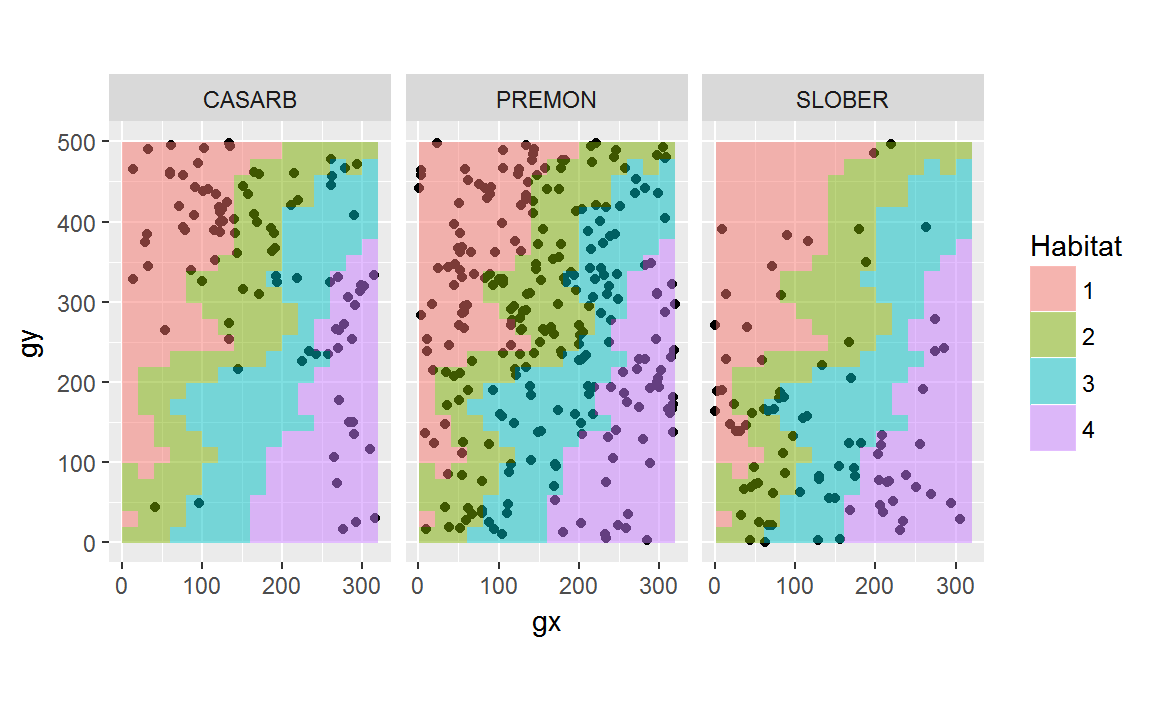
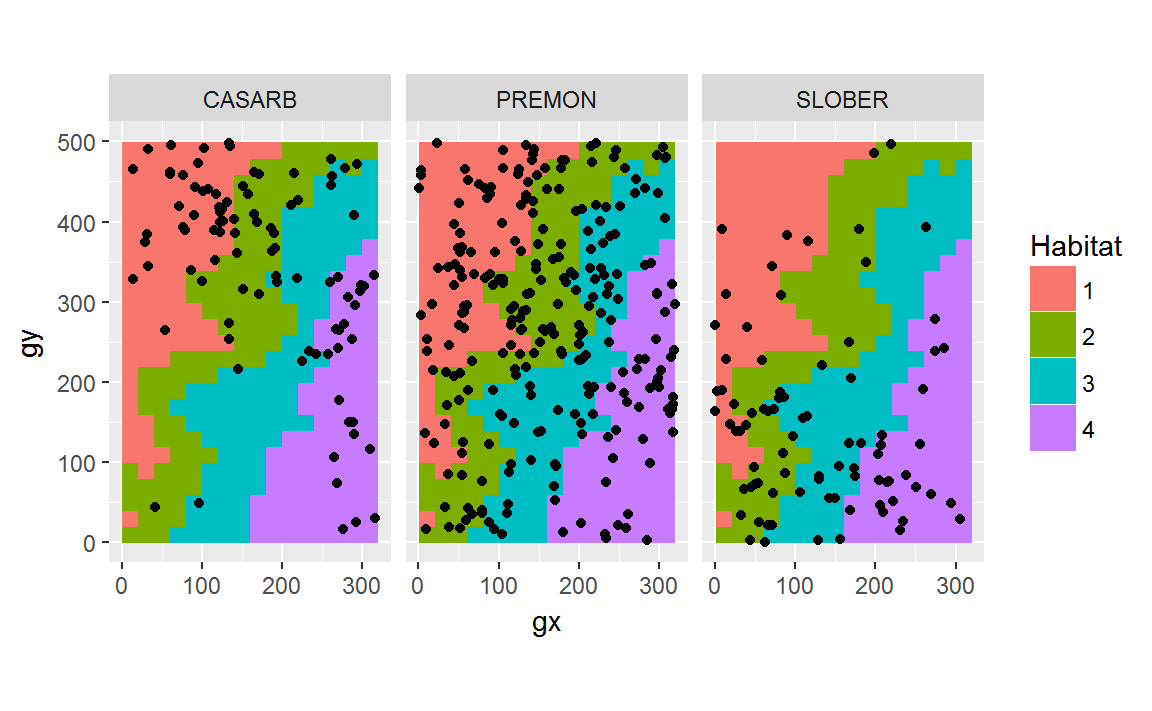
Extend vignette ttt.

diff --git a/docs/articles/ttt_luquillo.html b/docs/articles/ttt_luquillo.html
@@ -121,17 +121,16 @@
 <a class="sourceLine" id="cb1-2" data-line-number="2">remotes<span class="op">::</span><span class="kw"><a href="http://www.rdocumentation.org/packages/remotes/topics/install_github">install_github</a></span>(<span class="st">"forestgeo/fgeo.habitat"</span>)</a></code></pre></div>
 <p>For details on how to install packages from GitHub, see <a href="https://fgeo.netlify.com/2018/02/05/2018-02-05-installing-packages-from-github/">this article</a>.</p>
 <div class="sourceCode" id="cb2"><pre class="sourceCode r"><code class="sourceCode r"><a class="sourceLine" id="cb2-1" data-line-number="1"><span class="kw">library</span>(fgeo.habitat)</a>
-<a class="sourceLine" id="cb2-2" data-line-number="2"><span class="co"># General purpose functions</span></a>
-<a class="sourceLine" id="cb2-3" data-line-number="3"><span class="kw">library</span>(dplyr)</a>
-<a class="sourceLine" id="cb2-4" data-line-number="4"><span class="co">#&gt; </span></a>
-<a class="sourceLine" id="cb2-5" data-line-number="5"><span class="co">#&gt; Attaching package: 'dplyr'</span></a>
-<a class="sourceLine" id="cb2-6" data-line-number="6"><span class="co">#&gt; The following objects are masked from 'package:stats':</span></a>
-<a class="sourceLine" id="cb2-7" data-line-number="7"><span class="co">#&gt; </span></a>
-<a class="sourceLine" id="cb2-8" data-line-number="8"><span class="co">#&gt;     filter, lag</span></a>
-<a class="sourceLine" id="cb2-9" data-line-number="9"><span class="co">#&gt; The following objects are masked from 'package:base':</span></a>
-<a class="sourceLine" id="cb2-10" data-line-number="10"><span class="co">#&gt; </span></a>
-<a class="sourceLine" id="cb2-11" data-line-number="11"><span class="co">#&gt;     intersect, setdiff, setequal, union</span></a>
-<a class="sourceLine" id="cb2-12" data-line-number="12"><span class="kw">library</span>(ggplot2)</a></code></pre></div>
+<a class="sourceLine" id="cb2-2" data-line-number="2"><span class="co"># Packages for data wranging and visualization</span></a>
+<a class="sourceLine" id="cb2-3" data-line-number="3"><span class="kw">library</span>(tidyverse)</a>
+<a class="sourceLine" id="cb2-4" data-line-number="4"><span class="co">#&gt; -- Attaching packages --------------------------------------------------- tidyverse 1.2.1 --</span></a>
+<a class="sourceLine" id="cb2-5" data-line-number="5"><span class="co">#&gt; v ggplot2 2.2.1     v purrr   0.2.4</span></a>
+<a class="sourceLine" id="cb2-6" data-line-number="6"><span class="co">#&gt; v tibble  1.4.2     v dplyr   0.7.4</span></a>
+<a class="sourceLine" id="cb2-7" data-line-number="7"><span class="co">#&gt; v tidyr   0.8.0     v stringr 1.3.0</span></a>
+<a class="sourceLine" id="cb2-8" data-line-number="8"><span class="co">#&gt; v readr   1.1.1     v forcats 0.3.0</span></a>
+<a class="sourceLine" id="cb2-9" data-line-number="9"><span class="co">#&gt; -- Conflicts ------------------------------------------------------ tidyverse_conflicts() --</span></a>
+<a class="sourceLine" id="cb2-10" data-line-number="10"><span class="co">#&gt; x dplyr::filter() masks stats::filter()</span></a>
+<a class="sourceLine" id="cb2-11" data-line-number="11"><span class="co">#&gt; x dplyr::lag()    masks stats::lag()</span></a></code></pre></div>
 </div>
 <div id="load-census-and-habitat-data" class="section level3">
 <h3 class="hasAnchor">
@@ -182,7 +181,7 @@
 <h3 class="hasAnchor">
 <a href="#pick-data" class="anchor"></a>Pick data</h3>
 <p>Let’s pick alive trees, of 10 mm or more, and of sufficiently abundant species.</p>
-<div class="sourceCode" id="cb6"><pre class="sourceCode r"><code class="sourceCode r"><a class="sourceLine" id="cb6-1" data-line-number="1"><span class="co"># Use the pipe %&gt;% to avoid saving temporary intermediary objects</span></a>
+<div class="sourceCode" id="cb6"><pre class="sourceCode r"><code class="sourceCode r"><a class="sourceLine" id="cb6-1" data-line-number="1"><span class="co"># The pipe (`%&gt;%`) helps to avoid saving temporary intermediary objects</span></a>
 <a class="sourceLine" id="cb6-2" data-line-number="2">pick &lt;-<span class="st"> </span>census_data <span class="op">%&gt;%</span><span class="st"> </span></a>
 <a class="sourceLine" id="cb6-3" data-line-number="3"><span class="st">  </span><span class="co"># Keep only alive</span></a>
 <a class="sourceLine" id="cb6-4" data-line-number="4"><span class="st">  </span><span class="kw">filter</span>(status <span class="op">==</span><span class="st"> "A"</span>) <span class="op">%&gt;%</span><span class="st"> </span></a>
@@ -225,17 +224,16 @@
 <a class="sourceLine" id="cb8-5" data-line-number="5">  pick,</a>
 <a class="sourceLine" id="cb8-6" data-line-number="6">  <span class="dt">plotdim =</span> plot_dimensions,</a>
 <a class="sourceLine" id="cb8-7" data-line-number="7">  <span class="dt">gridsize =</span> grid_size,</a>
-<a class="sourceLine" id="cb8-8" data-line-number="8">  <span class="dt">type =</span> <span class="st">'abund'</span></a>
-<a class="sourceLine" id="cb8-9" data-line-number="9">)<span class="op">$</span>abund</a>
-<a class="sourceLine" id="cb8-10" data-line-number="10"></a>
-<a class="sourceLine" id="cb8-11" data-line-number="11"><span class="kw">str</span>(abundance_per_quadrat, <span class="dt">list.len =</span> <span class="dv">5</span>)</a>
-<a class="sourceLine" id="cb8-12" data-line-number="12"><span class="co">#&gt; 'data.frame':    3 obs. of  400 variables:</span></a>
-<a class="sourceLine" id="cb8-13" data-line-number="13"><span class="co">#&gt;  $ 1  : num  0 1 0</span></a>
-<a class="sourceLine" id="cb8-14" data-line-number="14"><span class="co">#&gt;  $ 2  : num  0 0 0</span></a>
-<a class="sourceLine" id="cb8-15" data-line-number="15"><span class="co">#&gt;  $ 3  : num  0 0 0</span></a>
-<a class="sourceLine" id="cb8-16" data-line-number="16"><span class="co">#&gt;  $ 4  : num  0 0 0</span></a>
-<a class="sourceLine" id="cb8-17" data-line-number="17"><span class="co">#&gt;  $ 5  : num  0 0 0</span></a>
-<a class="sourceLine" id="cb8-18" data-line-number="18"><span class="co">#&gt;   [list output truncated]</span></a></code></pre></div>
+<a class="sourceLine" id="cb8-8" data-line-number="8">)<span class="op">$</span>abund</a>
+<a class="sourceLine" id="cb8-9" data-line-number="9"></a>
+<a class="sourceLine" id="cb8-10" data-line-number="10"><span class="kw">str</span>(abundance_per_quadrat, <span class="dt">list.len =</span> <span class="dv">5</span>)</a>
+<a class="sourceLine" id="cb8-11" data-line-number="11"><span class="co">#&gt; 'data.frame':    3 obs. of  400 variables:</span></a>
+<a class="sourceLine" id="cb8-12" data-line-number="12"><span class="co">#&gt;  $ 1  : num  0 1 0</span></a>
+<a class="sourceLine" id="cb8-13" data-line-number="13"><span class="co">#&gt;  $ 2  : num  0 0 0</span></a>
+<a class="sourceLine" id="cb8-14" data-line-number="14"><span class="co">#&gt;  $ 3  : num  0 0 0</span></a>
+<a class="sourceLine" id="cb8-15" data-line-number="15"><span class="co">#&gt;  $ 4  : num  0 0 0</span></a>
+<a class="sourceLine" id="cb8-16" data-line-number="16"><span class="co">#&gt;  $ 5  : num  0 0 0</span></a>
+<a class="sourceLine" id="cb8-17" data-line-number="17"><span class="co">#&gt;   [list output truncated]</span></a></code></pre></div>
 <p>Now we have all we need to run <code><a href="../reference/torusonesp.all.html">torusonesp.all()</a></code> for one and multiple species.</p>
 <div class="sourceCode" id="cb9"><pre class="sourceCode r"><code class="sourceCode r"><a class="sourceLine" id="cb9-1" data-line-number="1">one_species &lt;-<span class="st"> </span><span class="kw">unique</span>(pick<span class="op">$</span>sp)[[<span class="dv">1</span>]]</a>
 <a class="sourceLine" id="cb9-2" data-line-number="2">out_one &lt;-<span class="st"> </span><span class="kw"><a href="../reference/torusonesp.all.html">torusonesp.all</a></span>(</a>
@@ -312,26 +310,208 @@
 <a class="sourceLine" id="cb10-36" data-line-number="36"><span class="co">#&gt; Rep.Agg.Neut.4    0.000    0.000    0.000</span></a>
 <a class="sourceLine" id="cb10-37" data-line-number="37"><span class="co">#&gt; Obs.Quantile.4    0.584    0.139    0.719</span></a></code></pre></div>
 </div>
+<div id="wrapper" class="section level3">
+<h3 class="hasAnchor">
+<a href="#wrapper" class="anchor"></a>Wrapper</h3>
+<p>Finally, we can wrap all we have done into a convenient function.</p>
+<div class="sourceCode" id="cb11"><pre class="sourceCode r"><code class="sourceCode r"><a class="sourceLine" id="cb11-1" data-line-number="1">tttest &lt;-<span class="st"> </span><span class="cf">function</span>(sp, ...) {</a>
+<a class="sourceLine" id="cb11-2" data-line-number="2">  out &lt;-<span class="st"> </span><span class="kw">lapply</span>(sp, torusonesp.all, ...)</a>
+<a class="sourceLine" id="cb11-3" data-line-number="3">  <span class="kw">t</span>(<span class="kw">Reduce</span>(rbind, out))</a>
+<a class="sourceLine" id="cb11-4" data-line-number="4">}</a></code></pre></div>
+<div class="sourceCode" id="cb12"><pre class="sourceCode r"><code class="sourceCode r"><a class="sourceLine" id="cb12-1" data-line-number="1">two_species &lt;-<span class="st"> </span><span class="kw">sample</span>(<span class="kw">unique</span>(pick<span class="op">$</span>sp), <span class="dv">2</span>)</a>
+<a class="sourceLine" id="cb12-2" data-line-number="2"><span class="kw">tttest</span>(</a>
+<a class="sourceLine" id="cb12-3" data-line-number="3">  two_species,</a>
+<a class="sourceLine" id="cb12-4" data-line-number="4">  <span class="dt">hab.index20 =</span> habitat_data,</a>
+<a class="sourceLine" id="cb12-5" data-line-number="5">  <span class="dt">allabund20 =</span> abundance_per_quadrat,</a>
+<a class="sourceLine" id="cb12-6" data-line-number="6">  <span class="dt">plotdim =</span> plot_dimensions,</a>
+<a class="sourceLine" id="cb12-7" data-line-number="7">  <span class="dt">gridsize =</span> grid_size</a>
+<a class="sourceLine" id="cb12-8" data-line-number="8">)</a>
+<a class="sourceLine" id="cb12-9" data-line-number="9"><span class="co">#&gt;                  CASARB   PREMON</span></a>
+<a class="sourceLine" id="cb12-10" data-line-number="10"><span class="co">#&gt; N.Hab.1          25.000   59.000</span></a>
+<a class="sourceLine" id="cb12-11" data-line-number="11"><span class="co">#&gt; Gr.Hab.1       1489.000  389.000</span></a>
+<a class="sourceLine" id="cb12-12" data-line-number="12"><span class="co">#&gt; Ls.Hab.1        109.000 1208.000</span></a>
+<a class="sourceLine" id="cb12-13" data-line-number="13"><span class="co">#&gt; Eq.Hab.1          2.000    3.000</span></a>
+<a class="sourceLine" id="cb12-14" data-line-number="14"><span class="co">#&gt; Rep.Agg.Neut.1    0.000    0.000</span></a>
+<a class="sourceLine" id="cb12-15" data-line-number="15"><span class="co">#&gt; Obs.Quantile.1    0.931    0.243</span></a>
+<a class="sourceLine" id="cb12-16" data-line-number="16"><span class="co">#&gt; N.Hab.2          12.000   75.000</span></a>
+<a class="sourceLine" id="cb12-17" data-line-number="17"><span class="co">#&gt; Gr.Hab.2        168.000 1562.000</span></a>
+<a class="sourceLine" id="cb12-18" data-line-number="18"><span class="co">#&gt; Ls.Hab.2       1431.000   37.000</span></a>
+<a class="sourceLine" id="cb12-19" data-line-number="19"><span class="co">#&gt; Eq.Hab.2          1.000    1.000</span></a>
+<a class="sourceLine" id="cb12-20" data-line-number="20"><span class="co">#&gt; Rep.Agg.Neut.2    0.000    1.000</span></a>
+<a class="sourceLine" id="cb12-21" data-line-number="21"><span class="co">#&gt; Obs.Quantile.2    0.105    0.976</span></a>
+<a class="sourceLine" id="cb12-22" data-line-number="22"><span class="co">#&gt; N.Hab.3          14.000   56.000</span></a>
+<a class="sourceLine" id="cb12-23" data-line-number="23"><span class="co">#&gt; Gr.Hab.3        567.000  632.000</span></a>
+<a class="sourceLine" id="cb12-24" data-line-number="24"><span class="co">#&gt; Ls.Hab.3       1029.000  963.000</span></a>
+<a class="sourceLine" id="cb12-25" data-line-number="25"><span class="co">#&gt; Eq.Hab.3          4.000    5.000</span></a>
+<a class="sourceLine" id="cb12-26" data-line-number="26"><span class="co">#&gt; Rep.Agg.Neut.3    0.000    0.000</span></a>
+<a class="sourceLine" id="cb12-27" data-line-number="27"><span class="co">#&gt; Obs.Quantile.3    0.354    0.395</span></a>
+<a class="sourceLine" id="cb12-28" data-line-number="28"><span class="co">#&gt; N.Hab.4          15.000   44.000</span></a>
+<a class="sourceLine" id="cb12-29" data-line-number="29"><span class="co">#&gt; Gr.Hab.4        934.000  222.000</span></a>
+<a class="sourceLine" id="cb12-30" data-line-number="30"><span class="co">#&gt; Ls.Hab.4        661.000 1375.000</span></a>
+<a class="sourceLine" id="cb12-31" data-line-number="31"><span class="co">#&gt; Eq.Hab.4          5.000    3.000</span></a>
+<a class="sourceLine" id="cb12-32" data-line-number="32"><span class="co">#&gt; Rep.Agg.Neut.4    0.000    0.000</span></a>
+<a class="sourceLine" id="cb12-33" data-line-number="33"><span class="co">#&gt; Obs.Quantile.4    0.584    0.139</span></a></code></pre></div>
+</div>
+<div id="scaling-up" class="section level3">
+<h3 class="hasAnchor">
+<a href="#scaling-up" class="anchor"></a>Scaling up</h3>
+<p>Our result doesn’t scale up very well. As the number of species increases the resulting matrix becomes harder to interpret and handle.</p>
+<div class="sourceCode" id="cb13"><pre class="sourceCode r"><code class="sourceCode r"><a class="sourceLine" id="cb13-1" data-line-number="1">census &lt;-<span class="st"> </span>luquillo_tree6_random <span class="op">%&gt;%</span><span class="st"> </span></a>
+<a class="sourceLine" id="cb13-2" data-line-number="2"><span class="st">  </span><span class="kw">filter</span>(status <span class="op">==</span><span class="st"> "A"</span>, dbh <span class="op">&gt;=</span><span class="st"> </span><span class="dv">10</span>) <span class="op">%&gt;%</span><span class="st"> </span></a>
+<a class="sourceLine" id="cb13-3" data-line-number="3"><span class="st">  </span><span class="kw">add_count</span>(sp) <span class="op">%&gt;%</span><span class="st"> </span></a>
+<a class="sourceLine" id="cb13-4" data-line-number="4"><span class="st">  </span><span class="kw">filter</span>(n <span class="op">&gt;</span><span class="st"> </span><span class="dv">15</span>)</a>
+<a class="sourceLine" id="cb13-5" data-line-number="5"></a>
+<a class="sourceLine" id="cb13-6" data-line-number="6">abnd &lt;-<span class="st"> </span><span class="kw"><a href="../reference/abundanceperquad.html">abundanceperquad</a></span>(</a>
+<a class="sourceLine" id="cb13-7" data-line-number="7">  census, <span class="dt">plotdim =</span> plot_dimensions, <span class="dt">gridsize =</span> grid_size</a>
+<a class="sourceLine" id="cb13-8" data-line-number="8">)<span class="op">$</span>abund</a>
+<a class="sourceLine" id="cb13-9" data-line-number="9"></a>
+<a class="sourceLine" id="cb13-10" data-line-number="10">sp_lots &lt;-<span class="st"> </span><span class="kw">unique</span>(census<span class="op">$</span>sp)</a>
+<a class="sourceLine" id="cb13-11" data-line-number="11">result_lots &lt;-<span class="st"> </span><span class="kw">tttest</span>(</a>
+<a class="sourceLine" id="cb13-12" data-line-number="12">  sp_lots,</a>
+<a class="sourceLine" id="cb13-13" data-line-number="13">  <span class="dt">hab.index20 =</span> habitat_data,</a>
+<a class="sourceLine" id="cb13-14" data-line-number="14">  <span class="dt">allabund20 =</span> abnd,</a>
+<a class="sourceLine" id="cb13-15" data-line-number="15">  <span class="dt">plotdim =</span> plot_dimensions,</a>
+<a class="sourceLine" id="cb13-16" data-line-number="16">  <span class="dt">gridsize =</span> grid_size</a>
+<a class="sourceLine" id="cb13-17" data-line-number="17">)</a>
+<a class="sourceLine" id="cb13-18" data-line-number="18">result_lots</a>
+<a class="sourceLine" id="cb13-19" data-line-number="19"><span class="co">#&gt;                  DACEXC   CASARB   PREMON   SCHMOR   MANBID   CASSYL</span></a>
+<a class="sourceLine" id="cb13-20" data-line-number="20"><span class="co">#&gt; N.Hab.1           3.000   25.000   59.000    6.000   13.000 7.00e+00</span></a>
+<a class="sourceLine" id="cb13-21" data-line-number="21"><span class="co">#&gt; Gr.Hab.1         64.000 1511.000  605.000  623.000 1076.000 9.23e+02</span></a>
+<a class="sourceLine" id="cb13-22" data-line-number="22"><span class="co">#&gt; Ls.Hab.1       1532.000   80.000  990.000  968.000  519.000 6.72e+02</span></a>
+<a class="sourceLine" id="cb13-23" data-line-number="23"><span class="co">#&gt; Eq.Hab.1          4.000    9.000    5.000    9.000    5.000 5.00e+00</span></a>
+<a class="sourceLine" id="cb13-24" data-line-number="24"><span class="co">#&gt; Rep.Agg.Neut.1    0.000    0.000    0.000    0.000    0.000 0.00e+00</span></a>
+<a class="sourceLine" id="cb13-25" data-line-number="25"><span class="co">#&gt; Obs.Quantile.1    0.040    0.944    0.378    0.389    0.672 5.77e-01</span></a>
+<a class="sourceLine" id="cb13-26" data-line-number="26"><span class="co">#&gt; N.Hab.2           8.000   12.000   75.000   12.000   10.000 3.00e+00</span></a>
+<a class="sourceLine" id="cb13-27" data-line-number="27"><span class="co">#&gt; Gr.Hab.2        598.000  219.000 1577.000 1474.000  440.000 6.60e+01</span></a>
+<a class="sourceLine" id="cb13-28" data-line-number="28"><span class="co">#&gt; Ls.Hab.2        997.000 1379.000   22.000  125.000 1157.000 1.53e+03</span></a>
+<a class="sourceLine" id="cb13-29" data-line-number="29"><span class="co">#&gt; Eq.Hab.2          5.000    2.000    1.000    1.000    3.000 4.00e+00</span></a>
+<a class="sourceLine" id="cb13-30" data-line-number="30"><span class="co">#&gt; Rep.Agg.Neut.2    0.000    0.000    1.000    0.000    0.000 0.00e+00</span></a>
+<a class="sourceLine" id="cb13-31" data-line-number="31"><span class="co">#&gt; Obs.Quantile.2    0.374    0.137    0.986    0.921    0.275 4.13e-02</span></a>
+<a class="sourceLine" id="cb13-32" data-line-number="32"><span class="co">#&gt; N.Hab.3           7.000   14.000   56.000    2.000   15.000 1.20e+01</span></a>
+<a class="sourceLine" id="cb13-33" data-line-number="33"><span class="co">#&gt; Gr.Hab.3        443.000  466.000  333.000   72.000 1346.000 1.56e+03</span></a>
+<a class="sourceLine" id="cb13-34" data-line-number="34"><span class="co">#&gt; Ls.Hab.3       1152.000 1132.000 1264.000 1525.000  253.000 3.40e+01</span></a>
+<a class="sourceLine" id="cb13-35" data-line-number="35"><span class="co">#&gt; Eq.Hab.3          5.000    2.000    3.000    3.000    1.000 2.00e+00</span></a>
+<a class="sourceLine" id="cb13-36" data-line-number="36"><span class="co">#&gt; Rep.Agg.Neut.3    0.000    0.000    0.000    0.000    0.000 1.00e+00</span></a>
+<a class="sourceLine" id="cb13-37" data-line-number="37"><span class="co">#&gt; Obs.Quantile.3    0.277    0.291    0.208    0.045    0.841 9.78e-01</span></a>
+<a class="sourceLine" id="cb13-38" data-line-number="38"><span class="co">#&gt; N.Hab.4          15.000   15.000   44.000    7.000    7.000 4.00e+00</span></a>
+<a class="sourceLine" id="cb13-39" data-line-number="39"><span class="co">#&gt; Gr.Hab.4       1576.000  888.000  165.000 1097.000  230.000 4.14e+02</span></a>
+<a class="sourceLine" id="cb13-40" data-line-number="40"><span class="co">#&gt; Ls.Hab.4         22.000  708.000 1432.000  495.000 1366.000 1.18e+03</span></a>
+<a class="sourceLine" id="cb13-41" data-line-number="41"><span class="co">#&gt; Eq.Hab.4          2.000    4.000    3.000    8.000    4.000 8.00e+00</span></a>
+<a class="sourceLine" id="cb13-42" data-line-number="42"><span class="co">#&gt; Rep.Agg.Neut.4    1.000    0.000    0.000    0.000    0.000 0.00e+00</span></a>
+<a class="sourceLine" id="cb13-43" data-line-number="43"><span class="co">#&gt; Obs.Quantile.4    0.985    0.555    0.103    0.686    0.144 2.59e-01</span></a>
+<a class="sourceLine" id="cb13-44" data-line-number="44"><span class="co">#&gt;                  INGLAU   TETBAL   CECSCH   SLOBER   PSYBER</span></a>
+<a class="sourceLine" id="cb13-45" data-line-number="45"><span class="co">#&gt; N.Hab.1        7.00e+00 6.00e+00    6.000   14.000    4.000</span></a>
+<a class="sourceLine" id="cb13-46" data-line-number="46"><span class="co">#&gt; Gr.Hab.1       1.56e+03 1.20e+03  530.000  536.000  824.000</span></a>
+<a class="sourceLine" id="cb13-47" data-line-number="47"><span class="co">#&gt; Ls.Hab.1       4.10e+01 3.92e+02 1060.000 1062.000  767.000</span></a>
+<a class="sourceLine" id="cb13-48" data-line-number="48"><span class="co">#&gt; Eq.Hab.1       2.00e+00 8.00e+00   10.000    2.000    9.000</span></a>
+<a class="sourceLine" id="cb13-49" data-line-number="49"><span class="co">#&gt; Rep.Agg.Neut.1 0.00e+00 0.00e+00    0.000    0.000    0.000</span></a>
+<a class="sourceLine" id="cb13-50" data-line-number="50"><span class="co">#&gt; Obs.Quantile.1 9.73e-01 7.50e-01    0.331    0.335    0.515</span></a>
+<a class="sourceLine" id="cb13-51" data-line-number="51"><span class="co">#&gt; N.Hab.2        4.00e+00 3.00e+00    9.000   16.000    3.000</span></a>
+<a class="sourceLine" id="cb13-52" data-line-number="52"><span class="co">#&gt; Gr.Hab.2       7.29e+02 3.33e+02 1119.000  590.000  623.000</span></a>
+<a class="sourceLine" id="cb13-53" data-line-number="53"><span class="co">#&gt; Ls.Hab.2       8.63e+02 1.26e+03  476.000 1005.000  969.000</span></a>
+<a class="sourceLine" id="cb13-54" data-line-number="54"><span class="co">#&gt; Eq.Hab.2       8.00e+00 8.00e+00    5.000    5.000    8.000</span></a>
+<a class="sourceLine" id="cb13-55" data-line-number="55"><span class="co">#&gt; Rep.Agg.Neut.2 0.00e+00 0.00e+00    0.000    0.000    0.000</span></a>
+<a class="sourceLine" id="cb13-56" data-line-number="56"><span class="co">#&gt; Obs.Quantile.2 4.56e-01 2.08e-01    0.699    0.369    0.389</span></a>
+<a class="sourceLine" id="cb13-57" data-line-number="57"><span class="co">#&gt; N.Hab.3        1.00e+00 7.00e+00    9.000   19.000    6.000</span></a>
+<a class="sourceLine" id="cb13-58" data-line-number="58"><span class="co">#&gt; Gr.Hab.3       1.90e+01 1.44e+03 1206.000 1060.000 1172.000</span></a>
+<a class="sourceLine" id="cb13-59" data-line-number="59"><span class="co">#&gt; Ls.Hab.3       1.58e+03 1.57e+02  391.000  537.000  427.000</span></a>
+<a class="sourceLine" id="cb13-60" data-line-number="60"><span class="co">#&gt; Eq.Hab.3       2.00e+00 4.00e+00    3.000    3.000    1.000</span></a>
+<a class="sourceLine" id="cb13-61" data-line-number="61"><span class="co">#&gt; Rep.Agg.Neut.3 0.00e+00 0.00e+00    0.000    0.000    0.000</span></a>
+<a class="sourceLine" id="cb13-62" data-line-number="62"><span class="co">#&gt; Obs.Quantile.3 1.19e-02 8.99e-01    0.754    0.662    0.733</span></a>
+<a class="sourceLine" id="cb13-63" data-line-number="63"><span class="co">#&gt; N.Hab.4        4.00e+00 1.00e+00    5.000   17.000    4.000</span></a>
+<a class="sourceLine" id="cb13-64" data-line-number="64"><span class="co">#&gt; Gr.Hab.4       1.11e+03 1.23e+02  571.000 1100.000 1035.000</span></a>
+<a class="sourceLine" id="cb13-65" data-line-number="65"><span class="co">#&gt; Ls.Hab.4       4.85e+02 1.47e+03 1020.000  497.000  562.000</span></a>
+<a class="sourceLine" id="cb13-66" data-line-number="66"><span class="co">#&gt; Eq.Hab.4       9.00e+00 9.00e+00    9.000    3.000    3.000</span></a>
+<a class="sourceLine" id="cb13-67" data-line-number="67"><span class="co">#&gt; Rep.Agg.Neut.4 0.00e+00 0.00e+00    0.000    0.000    0.000</span></a>
+<a class="sourceLine" id="cb13-68" data-line-number="68"><span class="co">#&gt; Obs.Quantile.4 6.91e-01 7.69e-02    0.357    0.688    0.647</span></a></code></pre></div>
+<p>A solution is to convert the resulting object to a friendly long-format dataframe.</p>
+<div class="sourceCode" id="cb14"><pre class="sourceCode r"><code class="sourceCode r"><a class="sourceLine" id="cb14-1" data-line-number="1">result_long &lt;-<span class="st"> </span>result_lots <span class="op">%&gt;%</span><span class="st"> </span></a>
+<a class="sourceLine" id="cb14-2" data-line-number="2"><span class="st">  </span><span class="kw">as_tibble</span>() <span class="op">%&gt;%</span><span class="st"> </span></a>
+<a class="sourceLine" id="cb14-3" data-line-number="3"><span class="st">  </span><span class="kw">add_column</span>(<span class="dt">metric =</span> <span class="kw">rownames</span>(result_lots)) <span class="op">%&gt;%</span><span class="st"> </span></a>
+<a class="sourceLine" id="cb14-4" data-line-number="4"><span class="st">  </span><span class="kw">gather</span>(<span class="dt">key =</span> <span class="st">"sp"</span>, <span class="dt">value =</span> <span class="st">"value"</span>, <span class="op">-</span>metric)</a>
+<a class="sourceLine" id="cb14-5" data-line-number="5">result_long</a>
+<a class="sourceLine" id="cb14-6" data-line-number="6"><span class="co">#&gt; # A tibble: 264 x 3</span></a>
+<a class="sourceLine" id="cb14-7" data-line-number="7"><span class="co">#&gt;    metric         sp         value</span></a>
+<a class="sourceLine" id="cb14-8" data-line-number="8"><span class="co">#&gt;    &lt;chr&gt;          &lt;chr&gt;      &lt;dbl&gt;</span></a>
+<a class="sourceLine" id="cb14-9" data-line-number="9"><span class="co">#&gt;  1 N.Hab.1        DACEXC    3.00  </span></a>
+<a class="sourceLine" id="cb14-10" data-line-number="10"><span class="co">#&gt;  2 Gr.Hab.1       DACEXC   64.0   </span></a>
+<a class="sourceLine" id="cb14-11" data-line-number="11"><span class="co">#&gt;  3 Ls.Hab.1       DACEXC 1532.    </span></a>
+<a class="sourceLine" id="cb14-12" data-line-number="12"><span class="co">#&gt;  4 Eq.Hab.1       DACEXC    4.00  </span></a>
+<a class="sourceLine" id="cb14-13" data-line-number="13"><span class="co">#&gt;  5 Rep.Agg.Neut.1 DACEXC    0.    </span></a>
+<a class="sourceLine" id="cb14-14" data-line-number="14"><span class="co">#&gt;  6 Obs.Quantile.1 DACEXC    0.0400</span></a>
+<a class="sourceLine" id="cb14-15" data-line-number="15"><span class="co">#&gt;  7 N.Hab.2        DACEXC    8.00  </span></a>
+<a class="sourceLine" id="cb14-16" data-line-number="16"><span class="co">#&gt;  8 Gr.Hab.2       DACEXC  598.    </span></a>
+<a class="sourceLine" id="cb14-17" data-line-number="17"><span class="co">#&gt;  9 Ls.Hab.2       DACEXC  997.    </span></a>
+<a class="sourceLine" id="cb14-18" data-line-number="18"><span class="co">#&gt; 10 Eq.Hab.2       DACEXC    5.00  </span></a>
+<a class="sourceLine" id="cb14-19" data-line-number="19"><span class="co">#&gt; # ... with 254 more rows</span></a></code></pre></div>
+<p>With this format, the dataframe is easier to manipulate, summarize and visualize. For example:</p>
+<ul>
+<li>Filtering interesting species.</li>
+</ul>
+<div class="sourceCode" id="cb15"><pre class="sourceCode r"><code class="sourceCode r"><a class="sourceLine" id="cb15-1" data-line-number="1">top_sp &lt;-<span class="st"> </span><span class="kw">count</span>(census, sp) <span class="op">%&gt;%</span><span class="st"> </span><span class="kw">top_n</span>(<span class="dv">5</span>) <span class="op">%&gt;%</span><span class="st"> </span><span class="kw">pull</span>(sp)</a>
+<a class="sourceLine" id="cb15-2" data-line-number="2"><span class="co">#&gt; Selecting by nn</span></a>
+<a class="sourceLine" id="cb15-3" data-line-number="3"></a>
+<a class="sourceLine" id="cb15-4" data-line-number="4">result_top_sp &lt;-<span class="st"> </span><span class="kw">filter</span>(result_long, sp <span class="op">%in%</span><span class="st"> </span>top_sp)</a>
+<a class="sourceLine" id="cb15-5" data-line-number="5">result_top_sp <span class="op">%&gt;%</span><span class="st"> </span><span class="kw">spread</span>(sp, value)</a>
+<a class="sourceLine" id="cb15-6" data-line-number="6"><span class="co">#&gt; # A tibble: 24 x 6</span></a>
+<a class="sourceLine" id="cb15-7" data-line-number="7"><span class="co">#&gt;    metric   CASARB DACEXC MANBID PREMON SLOBER</span></a>
+<a class="sourceLine" id="cb15-8" data-line-number="8"><span class="co">#&gt;    &lt;chr&gt;     &lt;dbl&gt;  &lt;dbl&gt;  &lt;dbl&gt;  &lt;dbl&gt;  &lt;dbl&gt;</span></a>
+<a class="sourceLine" id="cb15-9" data-line-number="9"><span class="co">#&gt;  1 Eq.Hab.1     9.     4.     5.     5.     2.</span></a>
+<a class="sourceLine" id="cb15-10" data-line-number="10"><span class="co">#&gt;  2 Eq.Hab.2     2.     5.     3.     1.     5.</span></a>
+<a class="sourceLine" id="cb15-11" data-line-number="11"><span class="co">#&gt;  3 Eq.Hab.3     2.     5.     1.     3.     3.</span></a>
+<a class="sourceLine" id="cb15-12" data-line-number="12"><span class="co">#&gt;  4 Eq.Hab.4     4.     2.     4.     3.     3.</span></a>
+<a class="sourceLine" id="cb15-13" data-line-number="13"><span class="co">#&gt;  5 Gr.Hab.1  1511.    64.  1076.   605.   536.</span></a>
+<a class="sourceLine" id="cb15-14" data-line-number="14"><span class="co">#&gt;  6 Gr.Hab.2   219.   598.   440.  1577.   590.</span></a>
+<a class="sourceLine" id="cb15-15" data-line-number="15"><span class="co">#&gt;  7 Gr.Hab.3   466.   443.  1346.   333.  1060.</span></a>
+<a class="sourceLine" id="cb15-16" data-line-number="16"><span class="co">#&gt;  8 Gr.Hab.4   888.  1576.   230.   165.  1100.</span></a>
+<a class="sourceLine" id="cb15-17" data-line-number="17"><span class="co">#&gt;  9 Ls.Hab.1    80.  1532.   519.   990.  1062.</span></a>
+<a class="sourceLine" id="cb15-18" data-line-number="18"><span class="co">#&gt; 10 Ls.Hab.2  1379.   997.  1157.    22.  1005.</span></a>
+<a class="sourceLine" id="cb15-19" data-line-number="19"><span class="co">#&gt; # ... with 14 more rows</span></a></code></pre></div>
+<ul>
+<li>Producing analytic summaries.</li>
+</ul>
+<div class="sourceCode" id="cb16"><pre class="sourceCode r"><code class="sourceCode r"><a class="sourceLine" id="cb16-1" data-line-number="1">result_top_sp <span class="op">%&gt;%</span><span class="st"> </span></a>
+<a class="sourceLine" id="cb16-2" data-line-number="2"><span class="st">  </span><span class="kw">group_by</span>(metric) <span class="op">%&gt;%</span><span class="st"> </span></a>
+<a class="sourceLine" id="cb16-3" data-line-number="3"><span class="st">  </span><span class="kw">summarise</span>(<span class="dt">mean =</span> <span class="kw">mean</span>(value), <span class="dt">max =</span> <span class="kw">max</span>(value), <span class="dt">min =</span> <span class="kw">min</span>(value)) <span class="op">%&gt;%</span><span class="st"> </span></a>
+<a class="sourceLine" id="cb16-4" data-line-number="4"><span class="st">  </span><span class="kw">print</span>(<span class="dt">n =</span> <span class="kw">length</span>(.))</a>
+<a class="sourceLine" id="cb16-5" data-line-number="5"><span class="co">#&gt; # A tibble: 24 x 4</span></a>
+<a class="sourceLine" id="cb16-6" data-line-number="6"><span class="co">#&gt;   metric    mean   max   min</span></a>
+<a class="sourceLine" id="cb16-7" data-line-number="7"><span class="co">#&gt;   &lt;chr&gt;    &lt;dbl&gt; &lt;dbl&gt; &lt;dbl&gt;</span></a>
+<a class="sourceLine" id="cb16-8" data-line-number="8"><span class="co">#&gt; 1 Eq.Hab.1  5.00    9.    2.</span></a>
+<a class="sourceLine" id="cb16-9" data-line-number="9"><span class="co">#&gt; 2 Eq.Hab.2  3.20    5.    1.</span></a>
+<a class="sourceLine" id="cb16-10" data-line-number="10"><span class="co">#&gt; 3 Eq.Hab.3  2.80    5.    1.</span></a>
+<a class="sourceLine" id="cb16-11" data-line-number="11"><span class="co">#&gt; 4 Eq.Hab.4  3.20    4.    2.</span></a>
+<a class="sourceLine" id="cb16-12" data-line-number="12"><span class="co">#&gt; # ... with 20 more rows</span></a></code></pre></div>
+<ul>
+<li>Producing visual summaries.</li>
+</ul>
+<div class="sourceCode" id="cb17"><pre class="sourceCode r"><code class="sourceCode r"><a class="sourceLine" id="cb17-1" data-line-number="1">result_top_sp <span class="op">%&gt;%</span><span class="st"> </span></a>
+<a class="sourceLine" id="cb17-2" data-line-number="2"><span class="st">  </span><span class="kw">ggplot</span>(<span class="kw">aes</span>(sp, value, <span class="dt">color =</span> sp)) <span class="op">+</span></a>
+<a class="sourceLine" id="cb17-3" data-line-number="3"><span class="st">  </span><span class="kw">geom_point</span>() <span class="op">+</span></a>
+<a class="sourceLine" id="cb17-4" data-line-number="4"><span class="st">  </span><span class="kw">facet_wrap</span>(<span class="st">"metric"</span>, <span class="dt">scales =</span> <span class="st">"free_y"</span>) <span class="op">+</span></a>
+<a class="sourceLine" id="cb17-5" data-line-number="5"><span class="st">  </span><span class="kw">theme</span>(<span class="dt">axis.text.x =</span> <span class="kw">element_blank</span>())</a></code></pre></div>
+<p><img src="ttt_luquillo_files/figure-html/unnamed-chunk-15-1.png" width="100%" style="display: block; margin: auto;"></p>
+</div>
 <div id="map" class="section level3">
 <h3 class="hasAnchor">
 <a href="#map" class="anchor"></a>Map</h3>
 <p>Let’s see the distribution of species by habitat type.</p>
-<div class="sourceCode" id="cb11"><pre class="sourceCode r"><code class="sourceCode r"><a class="sourceLine" id="cb11-1" data-line-number="1">offset &lt;-<span class="st"> </span><span class="dv">20</span> <span class="op">/</span><span class="st"> </span><span class="dv">2</span></a>
-<a class="sourceLine" id="cb11-2" data-line-number="2">habitat_centered &lt;-<span class="st"> </span><span class="kw">mutate</span>(</a>
-<a class="sourceLine" id="cb11-3" data-line-number="3">  habitat_data, </a>
-<a class="sourceLine" id="cb11-4" data-line-number="4">  <span class="co"># Center species and habitat data</span></a>
-<a class="sourceLine" id="cb11-5" data-line-number="5">  <span class="dt">x =</span> x <span class="op">+</span><span class="st"> </span>offset, </a>
-<a class="sourceLine" id="cb11-6" data-line-number="6">  <span class="dt">y =</span> y <span class="op">+</span><span class="st"> </span>offset,</a>
-<a class="sourceLine" id="cb11-7" data-line-number="7">  <span class="co"># From continuous to categorical</span></a>
-<a class="sourceLine" id="cb11-8" data-line-number="8">  <span class="dt">habitats =</span> <span class="kw">as.factor</span>(habitats)</a>
-<a class="sourceLine" id="cb11-9" data-line-number="9">)</a>
-<a class="sourceLine" id="cb11-10" data-line-number="10"></a>
-<a class="sourceLine" id="cb11-11" data-line-number="11"><span class="kw">ggplot</span>(census_data, <span class="kw">aes</span>(<span class="dt">x =</span> gx, <span class="dt">y =</span> gy)) <span class="op">+</span></a>
-<a class="sourceLine" id="cb11-12" data-line-number="12"><span class="st">  </span><span class="kw">geom_point</span>() <span class="op">+</span></a>
-<a class="sourceLine" id="cb11-13" data-line-number="13"><span class="st">  </span><span class="kw">geom_raster</span>(<span class="dt">data =</span> habitat_centered, <span class="kw">aes</span>(x, y, <span class="dt">fill =</span> habitats), <span class="dt">alpha =</span> <span class="dv">1</span><span class="op">/</span><span class="dv">2</span>) <span class="op">+</span><span class="st"> </span></a>
-<a class="sourceLine" id="cb11-14" data-line-number="14"><span class="st">  </span><span class="kw">coord_fixed</span>() <span class="op">+</span></a>
-<a class="sourceLine" id="cb11-15" data-line-number="15"><span class="st">  </span><span class="kw">facet_wrap</span>(<span class="op">~</span>sp) <span class="op">+</span></a>
-<a class="sourceLine" id="cb11-16" data-line-number="16"><span class="st">  </span><span class="kw">labs</span>(<span class="dt">fill =</span> <span class="st">"Habitat"</span>)</a></code></pre></div>
+<div class="sourceCode" id="cb18"><pre class="sourceCode r"><code class="sourceCode r"><a class="sourceLine" id="cb18-1" data-line-number="1">offset &lt;-<span class="st"> </span><span class="dv">20</span> <span class="op">/</span><span class="st"> </span><span class="dv">2</span></a>
+<a class="sourceLine" id="cb18-2" data-line-number="2">habitat_centered &lt;-<span class="st"> </span><span class="kw">mutate</span>(</a>
+<a class="sourceLine" id="cb18-3" data-line-number="3">  habitat_data, </a>
+<a class="sourceLine" id="cb18-4" data-line-number="4">  <span class="co"># Center species and habitat data</span></a>
+<a class="sourceLine" id="cb18-5" data-line-number="5">  <span class="dt">x =</span> x <span class="op">+</span><span class="st"> </span>offset, </a>
+<a class="sourceLine" id="cb18-6" data-line-number="6">  <span class="dt">y =</span> y <span class="op">+</span><span class="st"> </span>offset,</a>
+<a class="sourceLine" id="cb18-7" data-line-number="7">  <span class="co"># From continuous to categorical</span></a>
+<a class="sourceLine" id="cb18-8" data-line-number="8">  <span class="dt">habitats =</span> <span class="kw">as.factor</span>(habitats)</a>
+<a class="sourceLine" id="cb18-9" data-line-number="9">)</a>
+<a class="sourceLine" id="cb18-10" data-line-number="10"></a>
+<a class="sourceLine" id="cb18-11" data-line-number="11"><span class="kw">ggplot</span>(census_data, <span class="kw">aes</span>(<span class="dt">x =</span> gx, <span class="dt">y =</span> gy)) <span class="op">+</span></a>
+<a class="sourceLine" id="cb18-12" data-line-number="12"><span class="st">  </span><span class="kw">geom_raster</span>(<span class="dt">data =</span> habitat_centered, <span class="kw">aes</span>(x, y, <span class="dt">fill =</span> habitats)) <span class="op">+</span><span class="st"> </span></a>
+<a class="sourceLine" id="cb18-13" data-line-number="13"><span class="st">  </span><span class="kw">geom_point</span>() <span class="op">+</span></a>
+<a class="sourceLine" id="cb18-14" data-line-number="14"><span class="st">  </span><span class="kw">coord_fixed</span>() <span class="op">+</span></a>
+<a class="sourceLine" id="cb18-15" data-line-number="15"><span class="st">  </span><span class="kw">facet_wrap</span>(<span class="op">~</span>sp) <span class="op">+</span></a>
+<a class="sourceLine" id="cb18-16" data-line-number="16"><span class="st">  </span><span class="kw">labs</span>(<span class="dt">fill =</span> <span class="st">"Habitat"</span>)</a></code></pre></div>
 <p><img src="ttt_luquillo_files/figure-html/map-one-sp-1.png" width="100%" style="display: block; margin: auto;"></p>
 </div>
 </div>
